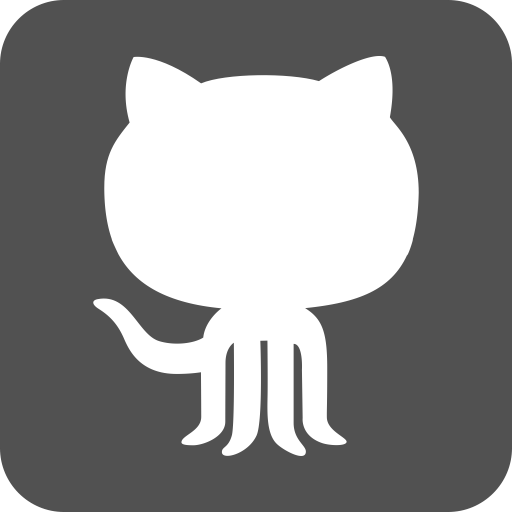
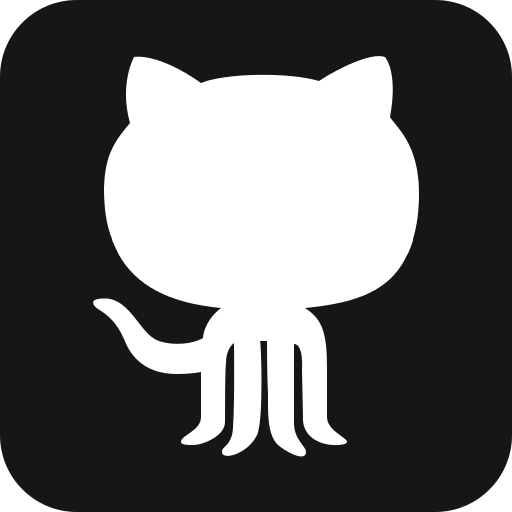
Updated example PNG images

diff --git a/README.md b/README.md
@@ -7,7 +7,7 @@ Originally created for my contact page - https://edent.tel/
 
 ## How Small?
 
-| 839 Bytes SVG	| 18,580 Bytes PNG	|   436 Bytes SVG	| 16,019 Bytes PNG	|  251 Bytes SVG	| 13,485 Bytes PNG	|
+| 839 Bytes SVG	| 31,061 Bytes PNG	|   436 Bytes SVG	| 26,980 Bytes PNG	|  251 Bytes SVG	| 16,093 Bytes PNG	|
 |------	        |-----------     	|------	            |----------	        |------	        |-----------	        |
 | <img src="https://edent.github.io/SuperTinySocialIcons/tiny/github.svg" width="100" />  	| <img src="https://edent.github.io/SuperTinySocialIcons/original/github.png" width="100" />        	| <img src="https://edent.github.io/SuperTinySocialIcons/tiny/twitter.svg" width="100" />   	| <img src="https://cdn.rawgit.com/edent/SuperTinySocialIcons/master/original/twitter.png" width="100" />       	| <img src="https://edent.github.io/SuperTinySocialIcons/tiny/flickr.svg" width="100" />   	| <img src="https://edent.github.io/SuperTinySocialIcons/original/flickr.png" width="100" />       	|
 
